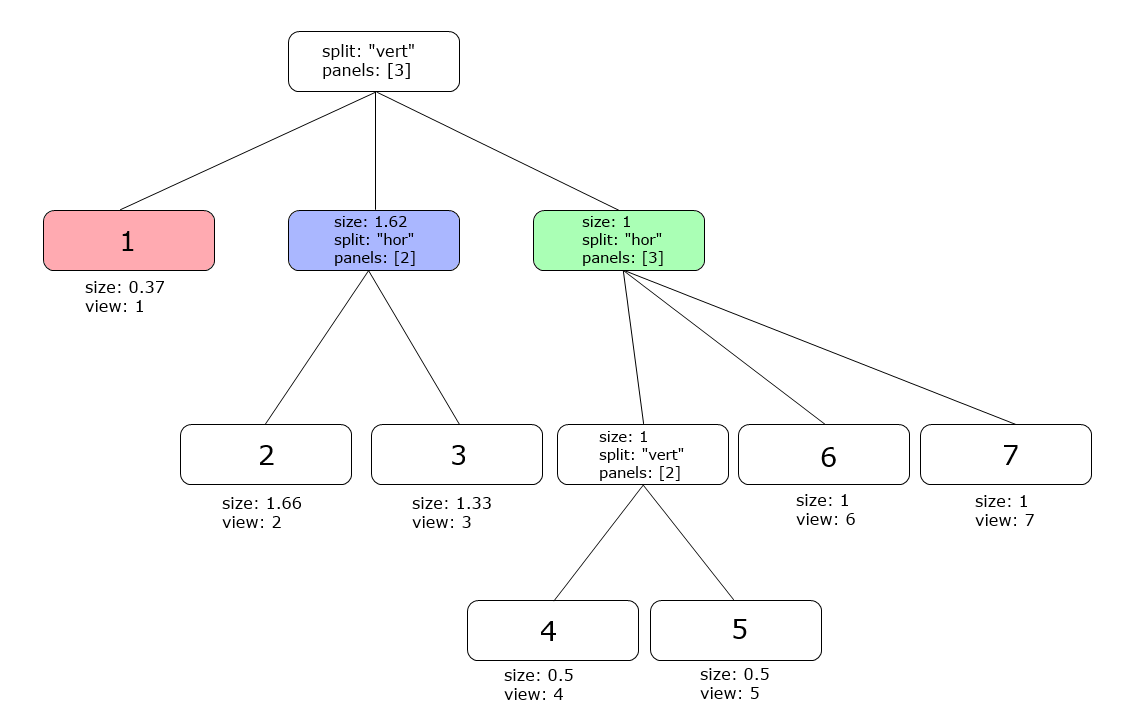
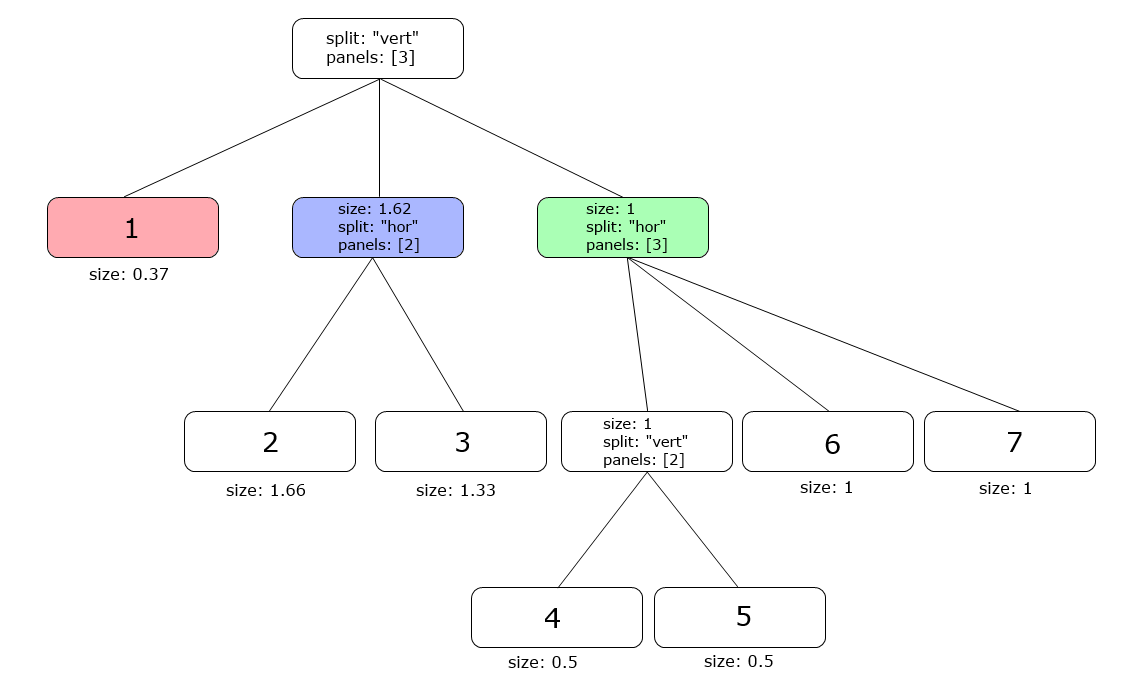
Gui Documentation

diff --git a/documentation/gui-documentation.md b/documentation/gui-documentation.md
@@ -1,27 +1,62 @@
 ### Table of Contents
+* [Filesystem](#Filesystem)
 * [Architecture](#Architecture)
-  * [View](#View)
-  * [Directives and Templates](#Directives)
-  * [Controllers](#Controllers)
-    * [View-Controllers](#ViewControllers)
-    * [Sub-Controllers](#SubControllers)
+  * [Views](#Views)
+  * [Panel Tree-Structure](#PanelTreeStructure)
   * [Services](#Services)
     * [Dispatcher](#Dispatcher)
     * [Manipulator](#Manipulator)
-    * [Extensibility](#Extensibility)
-* [Structure](#Structure)
 * [Troubleshooting](#Troubleshooting)
   * [Anything XAMPP related](#XAMPP)
   * [Website is blank](#blank)
 
+<a name="Filesystem" />
+# Filesystem
+
+* /
+  * [angular.js](https://code.angularjs.org/1.4.2/angular.js)
+  * app.js
+  * index.html
+  * stylesheet.css
+* /bootstrap
+  * [bootstrap.css](http://getbootstrap.com/)
+* /src
+  * [Injections.js](#Manipulator)
+  * {SomeViewsName}.js
+* /src-gen/
+  * /base
+      * [/lightbox](#Lightbox)
+          * ComLightbox.js	 
+          * Lightbox.js 
+      * [/tree](#PanelTreeStructure)
+	      * Node.js
+		  * Nodeaxis.js
+		  * Panel.js
+		  * Separator.js
+		  * Tree.js
+      * [Dispatcher.js](#Dispatcher)
+      * [Manipulator.js](#Manipulator)
+      * Table.js
+	  * [View.js](#View)
+  * /controls
+      * {SomeControlsName}.js
+  * /templates
+      * lightbox.html
+      * nodeaxis.html
+      * panel.html
+      * table.html
+      * {SomeViewsName}.js
+  * /views
+      * {SomeViewsName}.js
+  
 <a name="Architecture" />
 # Architecture
 
-<a name="View" />
+<a name="Views" />
 ## Views
 
-In the DSL a view is defined as either the main-view (main: true) or
-a referenced view (sub-view):
+In the DSL a view is defined as either a main-view (main: true) or
+a sub-view. Each view can reference another view or own controls.
 
 ```
 	view ('TaskEditor', main: true) {
@@ -37,128 +72,34 @@ a referenced view (sub-view):
 	}
 ```
 
-main-view: 'TaskEditor'
+In this snippet "TaskEditor" is a main-view, which references a sub-view called
+"TaskExplorer". Moreover, "TaskEditor" owns a button and "TaskExplorer" owns a table.
 
-sub-view: 'TaskExplorer'
-
-All views can own controls:
+Views can own these controls (for more see *Control.groovy*'s subclasses):
 * button
 * table
 * textField
-* *See Control.groovy's subclasses*
+* ...
 
-<a name="Directives" />
-### Directives and Templates
+![The website consists of different panels, which contain the views.](https://github.com/eugeis/ee-mdd/blob/master/documentation/images/site.png "The website's base frame")
 
-Angular comes with a handy option for creating custom html-elements called [directive](https://docs.angularjs.org/guide/directive). 
-These directives are used to include templates for the views. Each view is represented
-by a ee-view-element, which is defined in View.js:
+The website is parted into panels. Panels can be created (not yet implemented), deleted and resized. They
+contain a list of main-views (the tabs), which define the content of the panel. In the picture above the
+main-views are FileView, TaskEditorView, TaskWatchView, ConsoleView, StateView, DependencyView, WindowView and
+TreeView (note that these are only example names).
 
-```javascript
-	app.directive("eeView", function() {
-		return {
-			restrict: 'E',
-			controllerAs: 'ctrl',
-			templateUrl: function(elem, attrs) {
-				return "src-gen/templates/" + attrs.template + ".html";
-			},
-			replace: true,
-			link: function (scope, element, attrs) {
-				element.removeAttr('template');
-			}
-		};
-	});
-```
+<a name="PanelTreeStructure" />
+## Panel-Tree-Structure
 
-In this example the directive eeView has several properties:
-* "restrict: 'E'" - it is used for an html-element (as opposed to e.g. an attribute)
-* "controllerAs: 'ctrl'" - it uses a controller alias; this reduces scope problems and makes templates more flexible
-* "templateUrl: ..." - the template's url is calculated using the template-attribute of the html-element
-* "replace: true" - the custom directive gets replaced by the root element of the template
-* "link: ..." - the template attribute is removed
+![The website with the tree's first children colored](https://github.com/eugeis/ee-mdd/blob/master/documentation/images/grid.png "The website with the tree's first children colored")
 
-The directive could be used like this snippet in the html-file.
-Notice the translation from camelCase to dash-case (eeView -> ee-view).
+Every node in the tree has a size attribute and is either an axis or a panel. The size-attribute determines
+how much space of the parent-node the node occupies relativ to its siblings. Every axis-node introduces a new
+split - if the parent was horizontal split, the axis is vertical split and vice versa. Additionally, they have
+a list of child-nodes (so either panels or axis) called "panels". Panels on the other hand have the size-attribute
+and - this is not depicted in the image - a list of tabs.
 
-```html
-	<!-- index.html -->
-	<ee-view template="TaskExplorerView" ng-controller="TaskExplorerViewController"></ee-view>
-```
-
-A typicall view might look like this:
-* two buttons
-* a table
-
-```html
-	<!-- TaskExplorerView.html -->
-	<section id="TaskExplorerView">
-			<input type="button" value="AddTask">
-			<input type="button" value="DeleteTask">
-		<section id="TaskExplorerView-Table-Tasks">
-			<ee-table ng-controller="TaskExplorerViewTasksController as tableCtrl"></ee-table>
-		</section>
-	</section>
-```
-
-The table directive (ee-table) is again replaced with the table-template.
-
-```html
-	<!-- table.html -->
-	<table class="entityTable table table-striped table-bordered">
-		<tr>
-			<th ng-repeat="column in tableCtrl.columns" ng-click="tableCtrl.click(column)">{{column}}</th>
-		</tr>
-		<tr ng-repeat="row in tableCtrl.data">
-			<td ng-repeat="column in tableCtrl.columns" ng-click="tableCtrl.click(column, row)">{{row[column]}}</td>
-		</tr>
-	</table>
-```
-
-<a name="Controllers" />
-### Controllers
-
-In AngularJS controllers are used for the business logic in a website. They add behaviour and a state to their
-scope.
-
-Currently there are two types of controllers used in the application. For convenience they are called:
-  1. view-controllers
-  2. sub-controllers
-
-<a name="ViewControllers" />
-#### View-Controllers
-
-These controllers (e.g. TaskExplorerViewController) are attributed to a view-directive:
-
-```html
-	<!-- index.html -->
-	<ee-view template="TaskExplorerView" ng-controller="TaskExplorerViewController"></ee-view>
-```
-
-On creation they register by default at the $dispatcher.
-
-Any view-controller can wrap several sub-controllers forming a parent-child relationship; view-controllers
-are usually siblings to each other.
-These relationships are used by the $dispatcher to create a broadcast-system for e.g. event-handling.
-
-<a name="SubControllers" />
-#### Sub-Controllers
-
-A sub-controller manages the view's controls. 
-
-```html
-	<!-- TaskExplorerView.html -->
-	<section id="TaskExplorerView"> <!-- ngController: TaskExplorerViewController -->
-		<section id="TaskExplorerView-Table-Tasks">
-			<ee-table ng-controller="TaskExplorerViewTasksController as tableCtrl"></ee-table>
-		</section>
-	</section>
-```
-
-When a sub-controller emits an event, the view-controller dispatches the event to all view-controllers.
-These broadcast the event to their sub-controllers resulting in a event-broadcast-system. The sub-controllers
-can then decide whether to react to an event on let it pass.
-
-**Table-Controller** -- *emits* --> **View-Controller** -- *dispatches* --> **View-Controllers** -- *broadcasts* --> **Table-Controllers**
+![The tree structure for the image above](https://github.com/eugeis/ee-mdd/blob/master/documentation/images/tree.png "The tree structure for the image above")
 
 <a name="Services" />
 ## Services
@@ -181,66 +122,77 @@ inside your view.
 
 [Click here to see the svg.](https://github.com/eugeis/ee-mdd/blob/master/documentation/images/dispatcher.svg)
 
+<a name="Lightbox" />
+### Lightbox
+
+The lightbox is a popup-like formular. This allows the user to add, edit or delete
+data. When the dependency "ComLightbox" is available, a lightbox can be created with
+
+```javascript
+	$lightbox.create(info)
+```
+
+"info" is an object containing information relevant to the lightbox:
+  *  caller - which controller created the lightbox
+  *  type - add / delete / edit (or custom)
+  *  columnInfo - information which is to displayed to the user
 
 <a name="Manipulator" />
 ### Manipulator
 
-The manipulator ist used to inject and manipulate functions of the
+The manipulator is used to inject and manipulate functions of the
 controllers. Manipulators are Singeltons created for every controller
 using the getInstance()-method. Injectors located in /src/ can invoke
 a manipulator and add functions to the manipulator's controller.
 
-Invoking a manipulator for "MyView"
+Getting a manipulator for "MyView":
 
 ```javascript
-	var manipulator = angular.module("Manipulator").getInstance("MyView");
+	var manipulator = $manipulator.getInstance("MyView");
 ```
 
-Adding a function to inject
+Replacing / Adding the "click"-function in "MyView":
 
 ```javascript
-	manipulator.add("click", function(column, row) {
-		console.log([column, row]);
-	}
+	manipulator.add("click", function(self) {
+		return function() {
+			console.log("This will add this function as 'click' to 'MyView'");
+		};
+	});
 ```
 
-<a name="Extensibility" />
-### Extensibility
+The closure's "self"-argument refers to the controller. This allows for further
+manipulation. Moreover, it's possible to invoke the function after the injection.
+
+```javascript
+	var manipulator = $manipulator.getInstance("MyView");
+	manipulator.add("exampleInit", function(self) {
+		return {
+			exec: true,
+			func: function() {
+				self.id = "Init-Id"
+			}
+		};
+	});
+```
 
 Using the manipulator you can extend the functionality of the generated controllers.
 By convention the views' controllers are manipulated in their complement js-file in
 the src-folder.
 
-After using the manipulator to add functions to the controller, you need to add this
-snippet to your index.html.
+After using the manipulator to add functions to the controller, you need to load
+the injection in your index.html (e.g. "src/MyView.js").
 
 ```html
 	<!-- Include ViewRef-Source-Dependencies-Javascript -->
 	<script src="src/{InjectionFile}.js" type="text/javascript"></script>
 ```
 
-<a name="Structure" />
-# Structure
+and set a dependency in src/Injections.js (e.g. "MyViewInjector"):
 
-* /
-  * [angular.js](https://code.angularjs.org/1.4.2/angular.js)
-  * app.js
-  * index.html
-  * stylesheet.css
-* /bootstrap
-  * [bootstrap.css](http://getbootstrap.com/)
-* /src
-  * {SomeViewsName}.js
-* /src-gen/
-  * /base
-      * Dispatcher.js
-      * Manipulator.js
-      * Table.js
-  * /scripts
-      * {SomeViewsName}.js
-  * /templates
-      * table.html
-      * {SomeViewsName}.js
+```html
+	angular.module("Injections",["{InjectionModule}"]);
+```
 
 <a name="Troubleshooting" />
 # Troubleshooting
